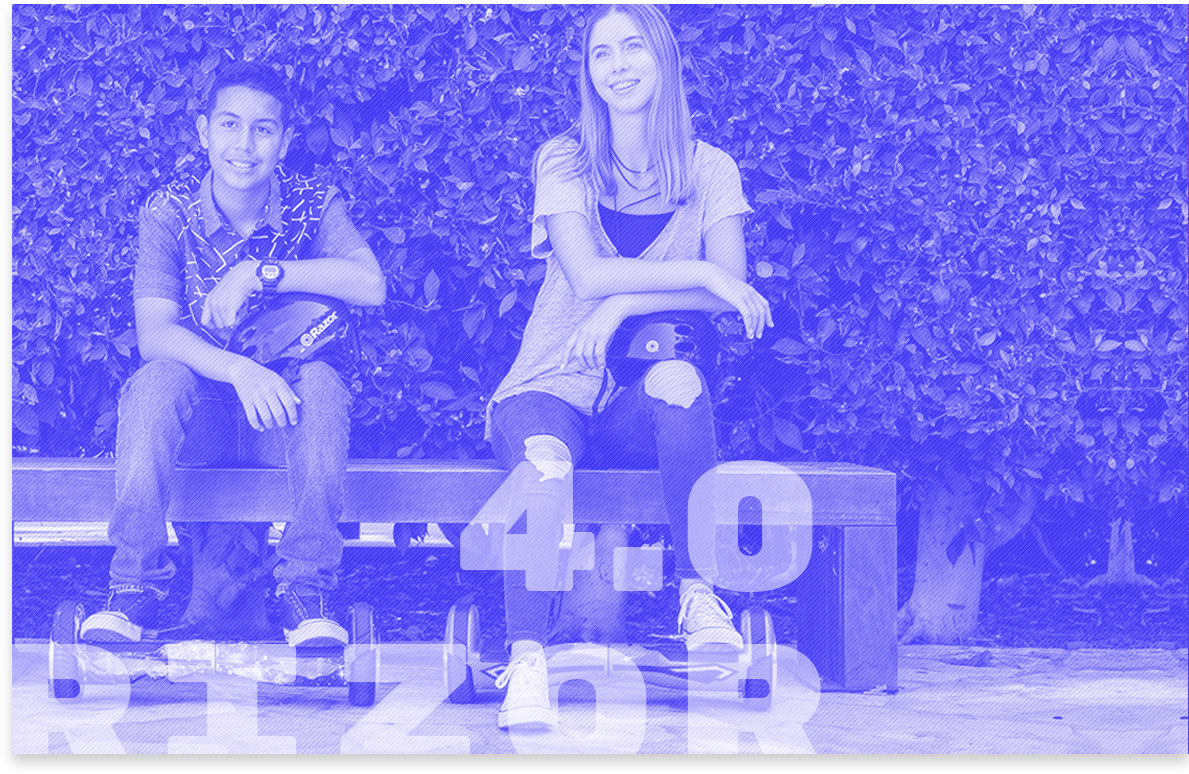
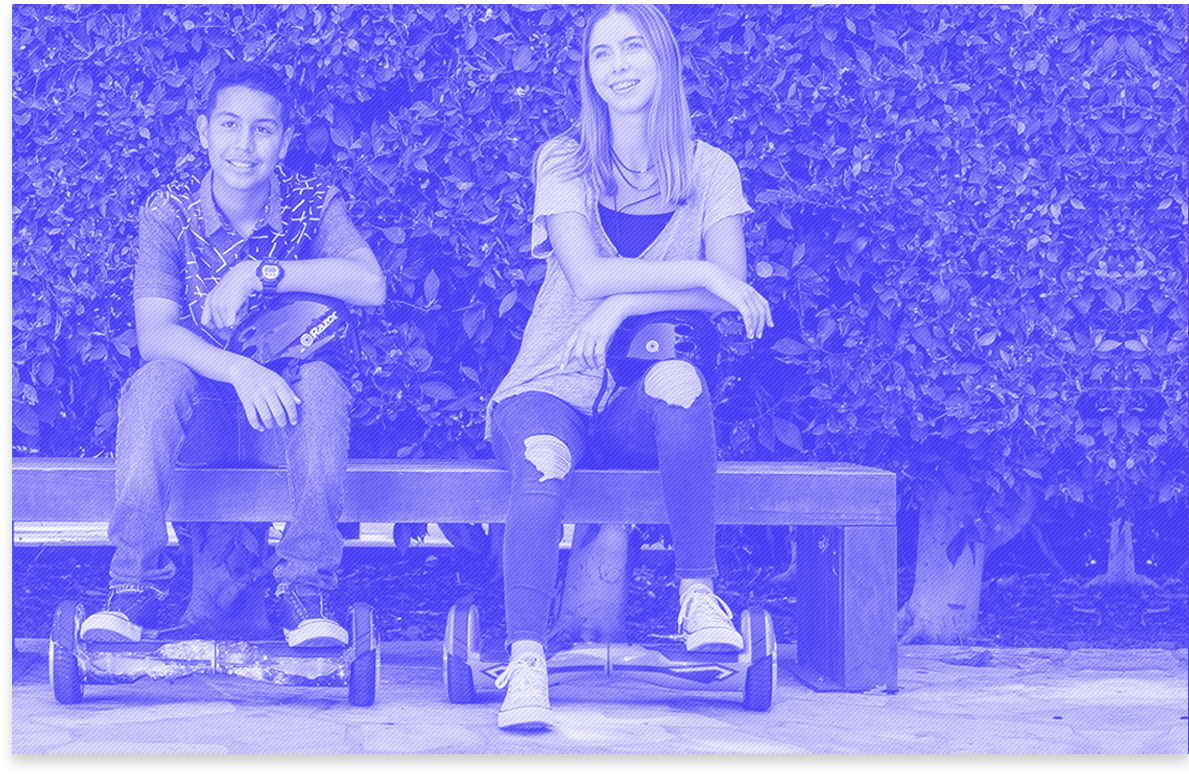
add section Footer

Changed region(s): [[0.2801, 0.8062, 0.7157, 0.9922], [0.3734, 0.5891, 0.6846, 0.7752], [0.0, 0.8062, 0.2489, 0.9922]]

diff --git a/src/styles/_footer.scss b/src/styles/_footer.scss
@@ -1,0 +1,122 @@
+.footer {
+  height: 820px;
+  position: relative;
+  background-color: #3a2ff8;
+
+  &__container {
+    padding-left: 370px;
+    position: relative;
+    display: flex;
+    justify-content: space-between;
+  }
+
+  &__background-image {
+    position: absolute;
+    width: calc(100% - 470px);
+    height: 100%;
+    top: 0;
+    left: 0;
+
+    opacity: 0.05;
+    background-image: url(/images/background-image1.png);
+    background-repeat: no-repeat;
+    background-size: contain;
+  }
+
+  &__info {
+    max-width: 330px;
+    color: white;
+  }
+
+  &__title {
+    margin: 95px 0 80px;
+    font-family: 'Roboto Bold', Arial, Helvetica, sans-serif;
+    font-size: 20px;
+    text-transform: uppercase;
+    letter-spacing: 1.5px;
+  }
+
+  &__text {
+    margin-bottom: 30px;
+    font-family: 'Roboto Light', Arial, Helvetica, sans-serif;
+    font-size: 18px;
+    line-height: 1.5;
+  }
+
+  &__text-bold {
+    font-family: 'Roboto Bold', Arial, Helvetica, sans-serif;
+  }
+
+  &__button {
+    margin-top: 100px;
+    width: 270px;
+    height: 50px;
+
+    font-family: 'Roboto Bold', Arial, Helvetica, sans-serif;
+    letter-spacing: 1px;
+    color: #3a2ff8;
+    text-transform: uppercase;
+
+    border: 2px solid transparent;
+    border-radius: 50px;
+    cursor: pointer;
+    transition: 300ms;
+
+    &:hover {
+      color: white;
+      border-color: white;
+      background-color: #3a2ff8;
+    }
+  }
+
+  &__image-container {
+    height: 770px;
+    width: calc(100% - 360px);
+    position: relative;
+    top: -60px;
+  }
+
+  &__image {
+    width: 100%;
+    height: 100%;
+    object-fit: cover;
+  }
+
+  &__background-comment {
+    // width: 100%;
+    // height: 100%;
+    // position: absolute;
+    // bottom: 0;
+    // left:
+
+    // opacity: 0.5;
+    // transform: rotate(90deg);
+    // background-image: url(/images/background-image2.png);
+    // background-size: contain;
+    // background-repeat: no-repeat;
+
+    max-width: fit-content;
+    position: absolute;
+    bottom: -35px;
+
+    font-family: 'Rubik Mono One', Arial, Helvetica, sans-serif;
+    font-size: 180px;
+    letter-spacing: -6px;
+    text-align: right;
+    color: rgb(255, 255, 255, 0.5);
+  }
+
+  &__comment {
+    height: 30px;
+    padding: 8px;
+    width: 100%;
+    position: absolute;
+    bottom: 0;
+    background-color: #292929;
+
+    font-family: 'Roboto Bold', Arial, Helvetica, sans-serif;
+    font-size: 12px;
+    text-align: center;
+    color: #5c5b5b;
+  }
+}

diff --git a/src/index.html b/src/index.html
@@ -164,17 +164,28 @@
     </section>
 
     <footer class="footer" id="footer">
-      <div class=" footer__info">
-        <p class="footer__title"> Для кого</p>
-        <p class="footer__text"></p>
-        <button class="footer__buton">Перейти в каталог</button>
+      <div class="footer__background-image"></div>
+      <div class="footer__container">
+        <div class=" footer__info">
+          <p class="footer__title"> Для кого</p>
+          <p class="footer__text">При максимально выдерживаемой нагрузке в
+            <span class="footer__text-bold">100 кг</span>
+            отлично подойдёт, как для подрастающего поколения,
+            так и для более взрослых «наездников».
+          </p>
+          <p class="footer__text">Это единственный гироскутер со специальным детским режимом езды.</p>
+          <button class="footer__button">Перейти в каталог</button>
+        </div>
+        <div class="footer__image-container">
+          <img
+            class="footer__image"
+            src="images/footer.png"
+            alt="Hovertrax"
+          >
+          <div class="footer__background-comment">4.0<br>rizor</div>
+        </div>
       </div>
-      <img
-        class="footer__image"
-        src="images/video3.png"
-        alt="Hovertrax"
-      >
-      <div class="footer__comment"></div>
+      <p class="footer__comment">© All rights reserved, 2017</p>
     </footer>
   </body>
 

diff --git a/src/styles/_fonts.scss b/src/styles/_fonts.scss
@@ -1,10 +1,3 @@
-// @font-face {
-//   font-family: 'Roboto';
-//   src: url("/fonts/roboto/Roboto.ttf") format('ttf'),
-//        url("/fonts/roboto/Roboto.woff") format('woff'),
-//        url("/fonts/roboto/Roboto.woff2") format('woff2');
-// }
-
 @font-face {
   font-family: 'Roboto Bold';
   src: url("/fonts/roboto/Robotobold.ttf") format('ttf'),

diff --git a/src/styles/_modes.scss b/src/styles/_modes.scss
@@ -1,6 +1,6 @@
 .modes {
   height: 745px;
-  padding: 165px 0 190px 0;
+  margin: 165px 0 130px 0;
   position: relative;
   display: flex;
 

diff --git a/src/styles/main.scss b/src/styles/main.scss
@@ -8,3 +8,4 @@
 @import "_colorfulButtons.scss";
 @import "_productProperty";
 @import "_modes.scss";
+@import "_footer.scss";
